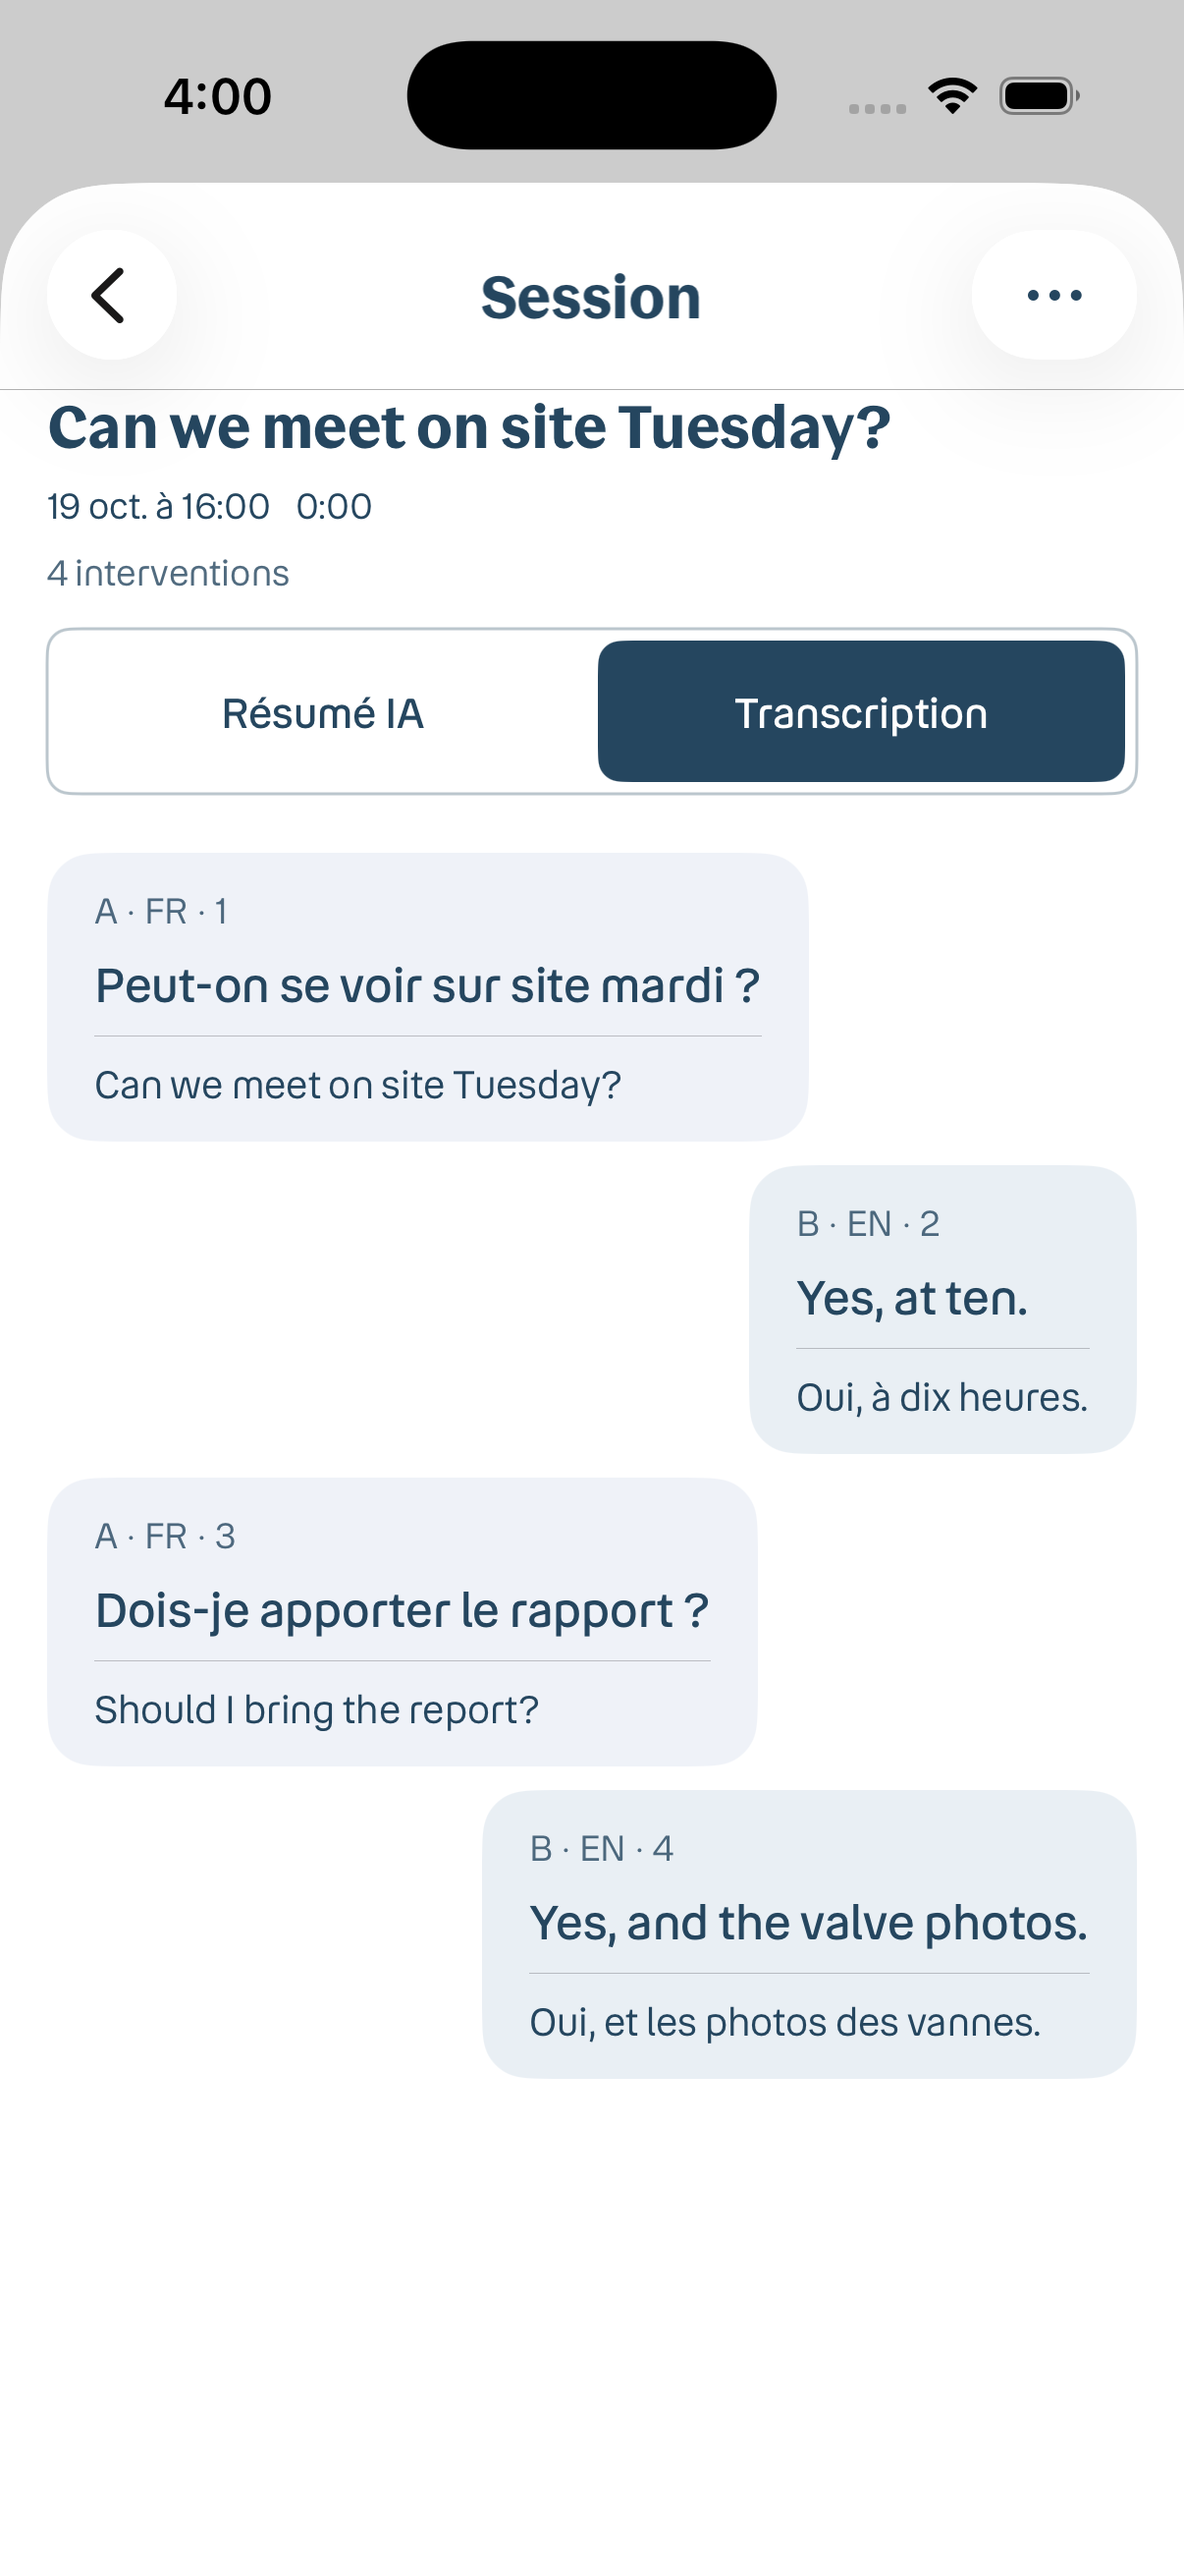
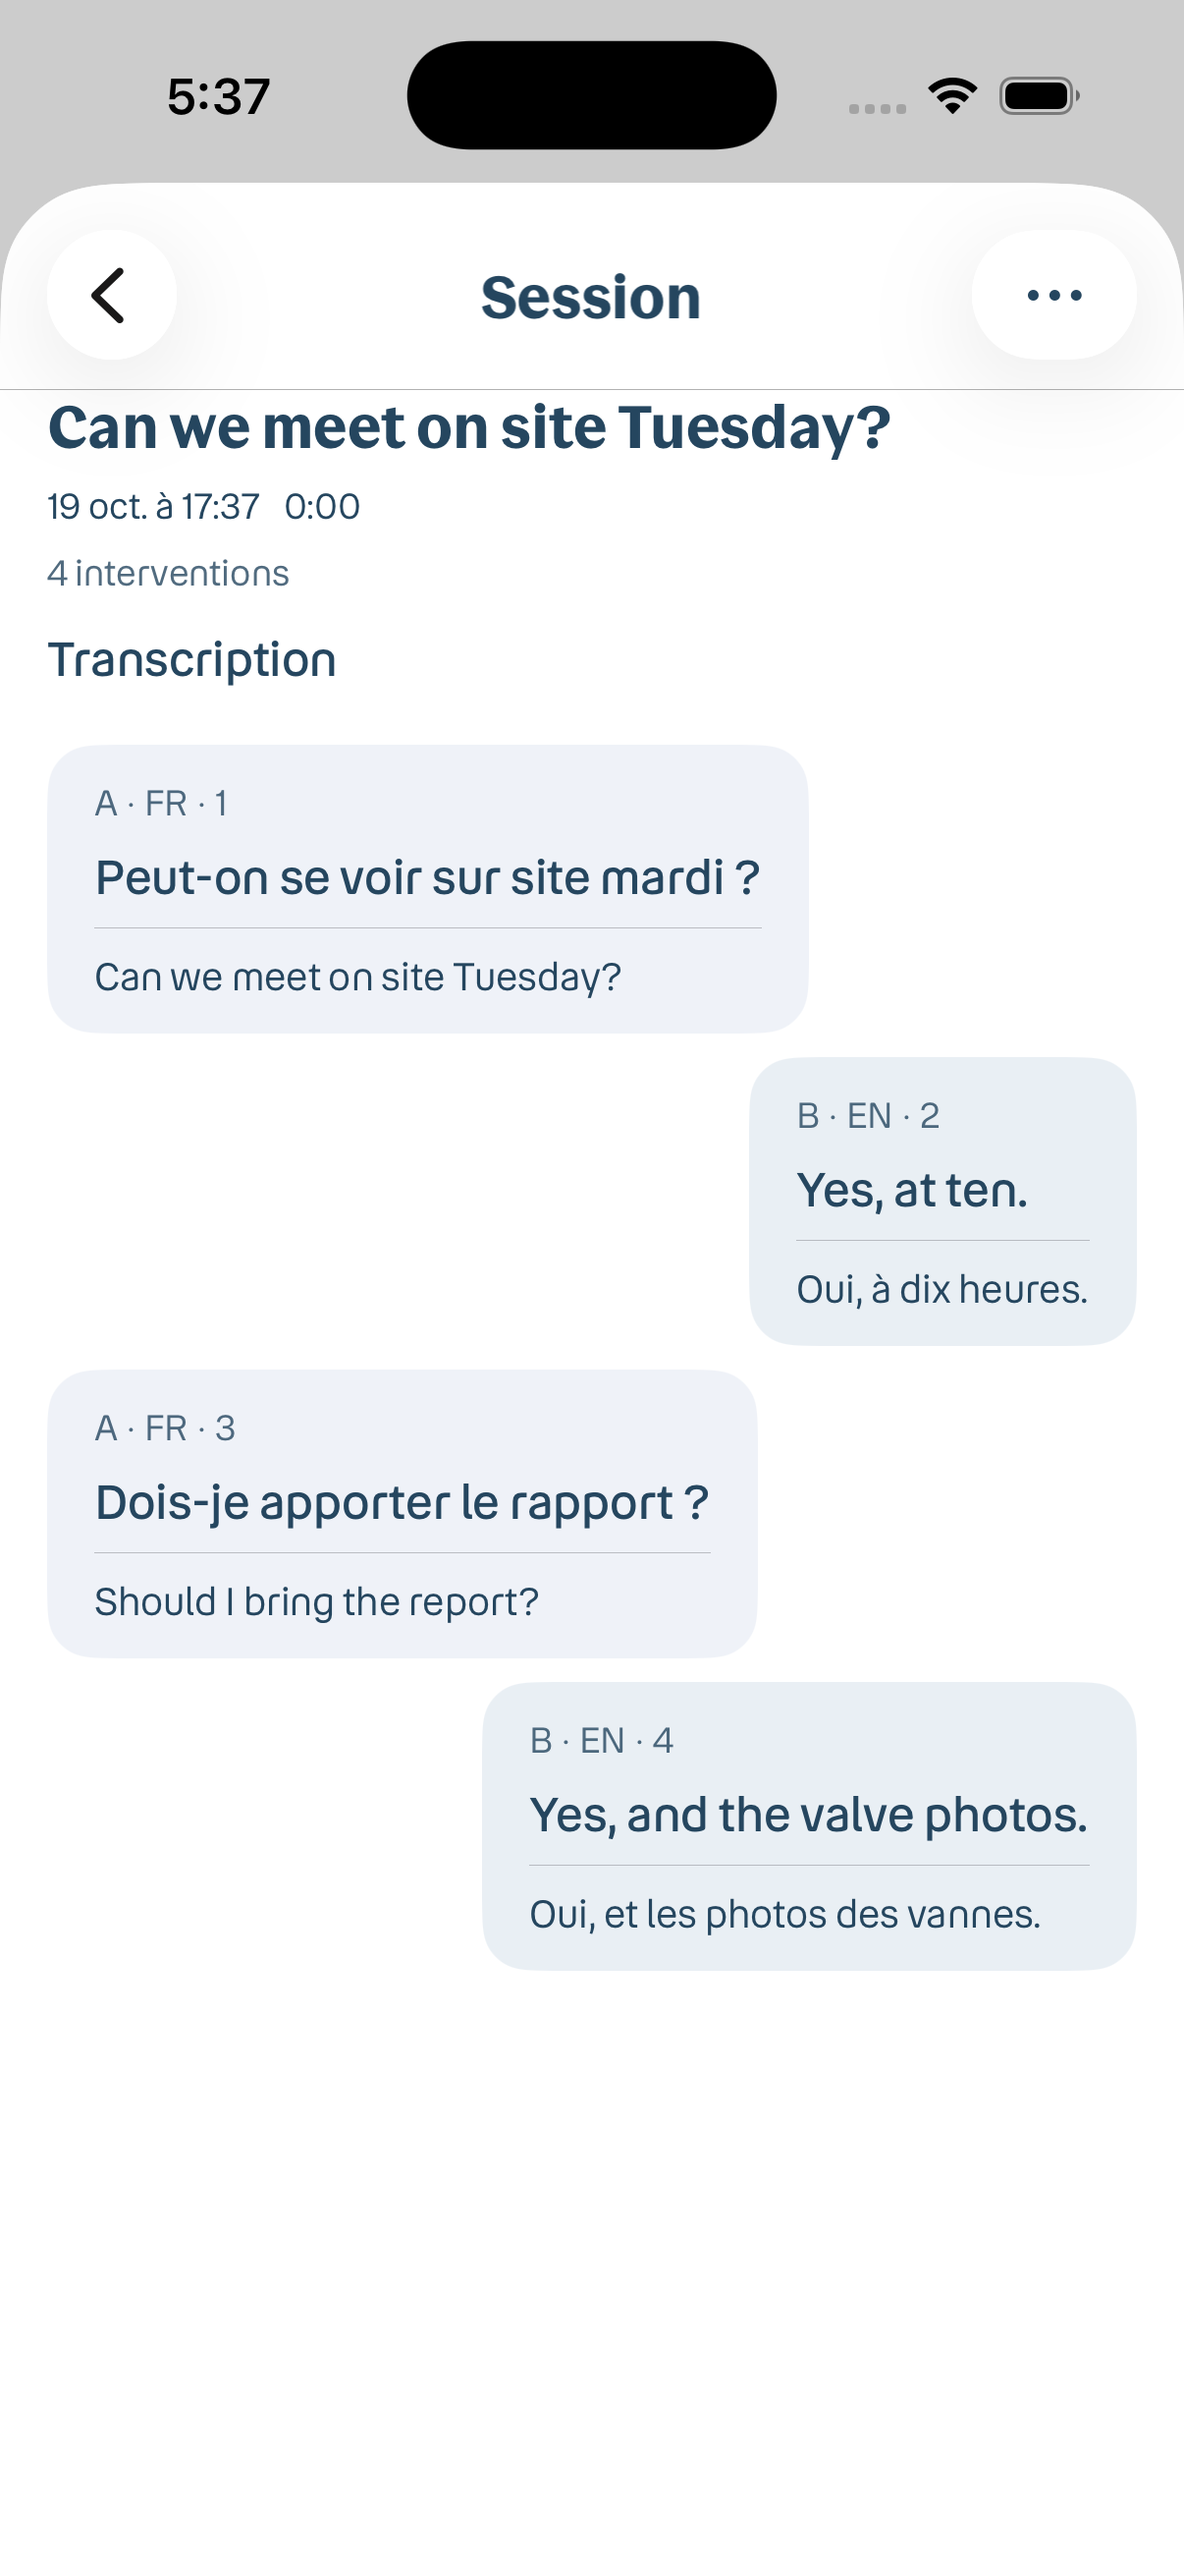
docs: show transcript-only session history and split validation

diff --git a/docs/design-review.md b/docs/design-review.md
@@ -25,4 +25,4 @@ In a Debug simulator build, launch with `-uiState designConversation -firstRun r
 
 ## Validation
 
-The summary extraction passed 168 iOS unit tests, the save/history UI scenario, and 111 Android unit tests plus debug build, lint and instrumentation-source compilation. The save/history check verifies that summary actions are absent. Android device UI execution and physical-device translation acceptance remain outstanding. The separated summary PR has its own real-device acceptance gate; fixture screenshots do not establish AI output quality.
+The summary extraction passed 168 iOS unit tests, the save/history UI scenario, and 111 Android unit tests plus debug build, lint and instrumentation-source compilation. The save/history check verifies that summary actions are absent. After restacking, the design PR passed three targeted iOS UI checks (save/history, typed input, replay) an unsigned iPhone Release build, and the Android debug build, lint and instrumentation-source compilation. The updated native French saved-session screenshot was inspected; all four turns open directly without a summary tab. Android device UI execution and physical-device translation acceptance remain outstanding. The separated summary PR has its own real-device acceptance gate; fixture screenshots do not establish AI output quality.
